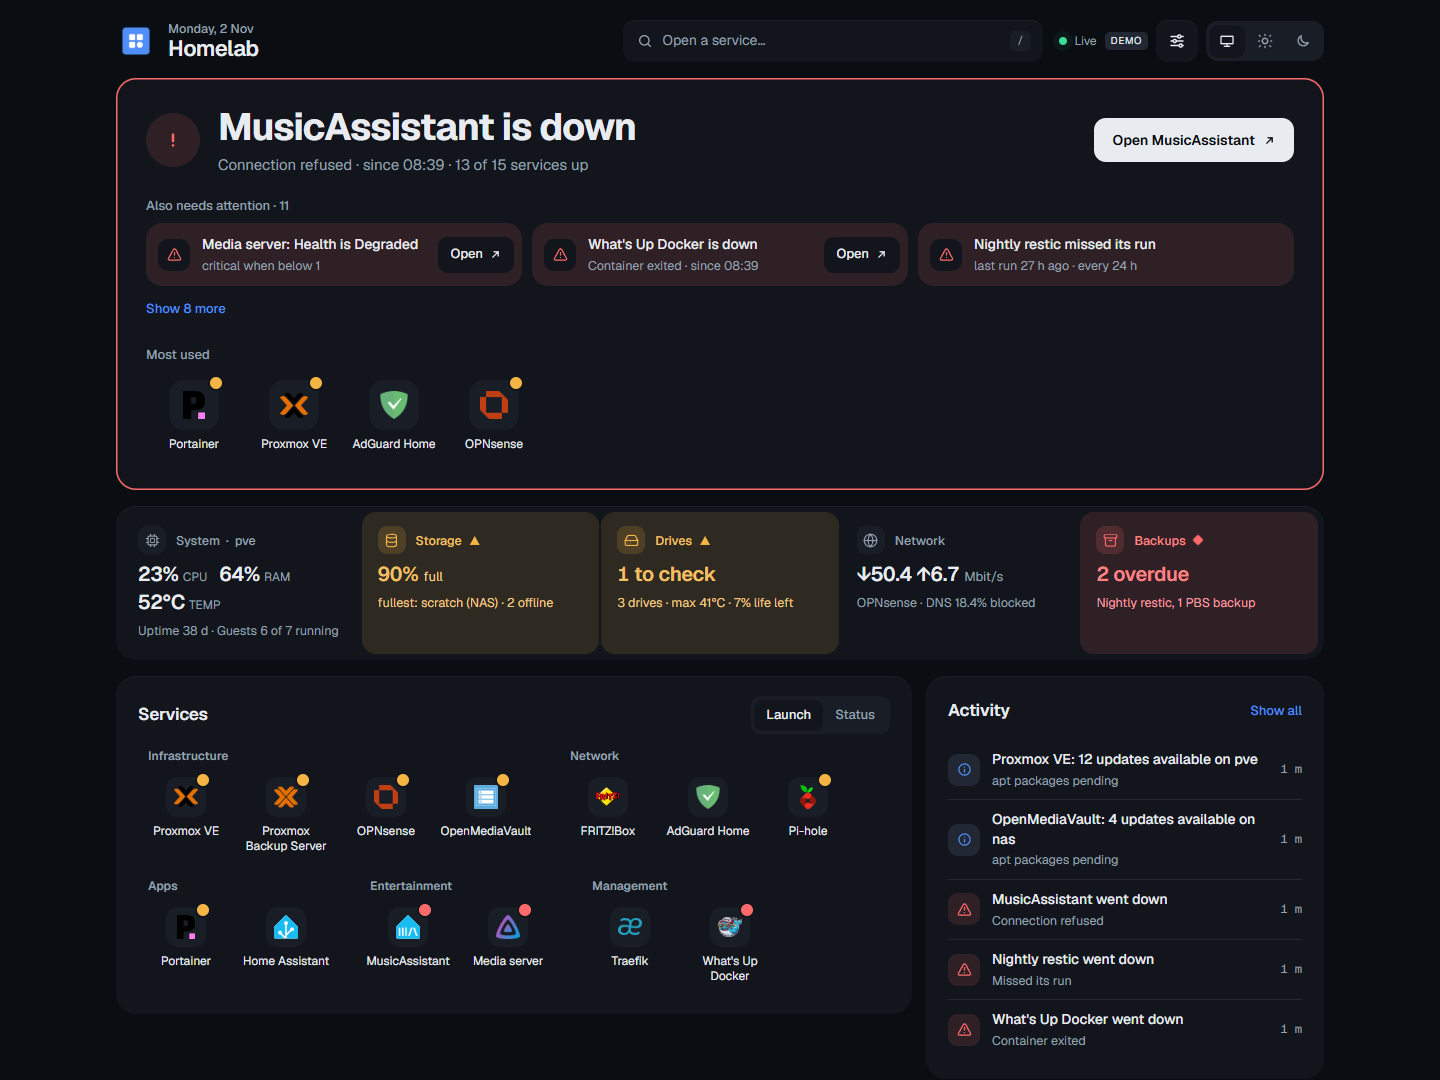
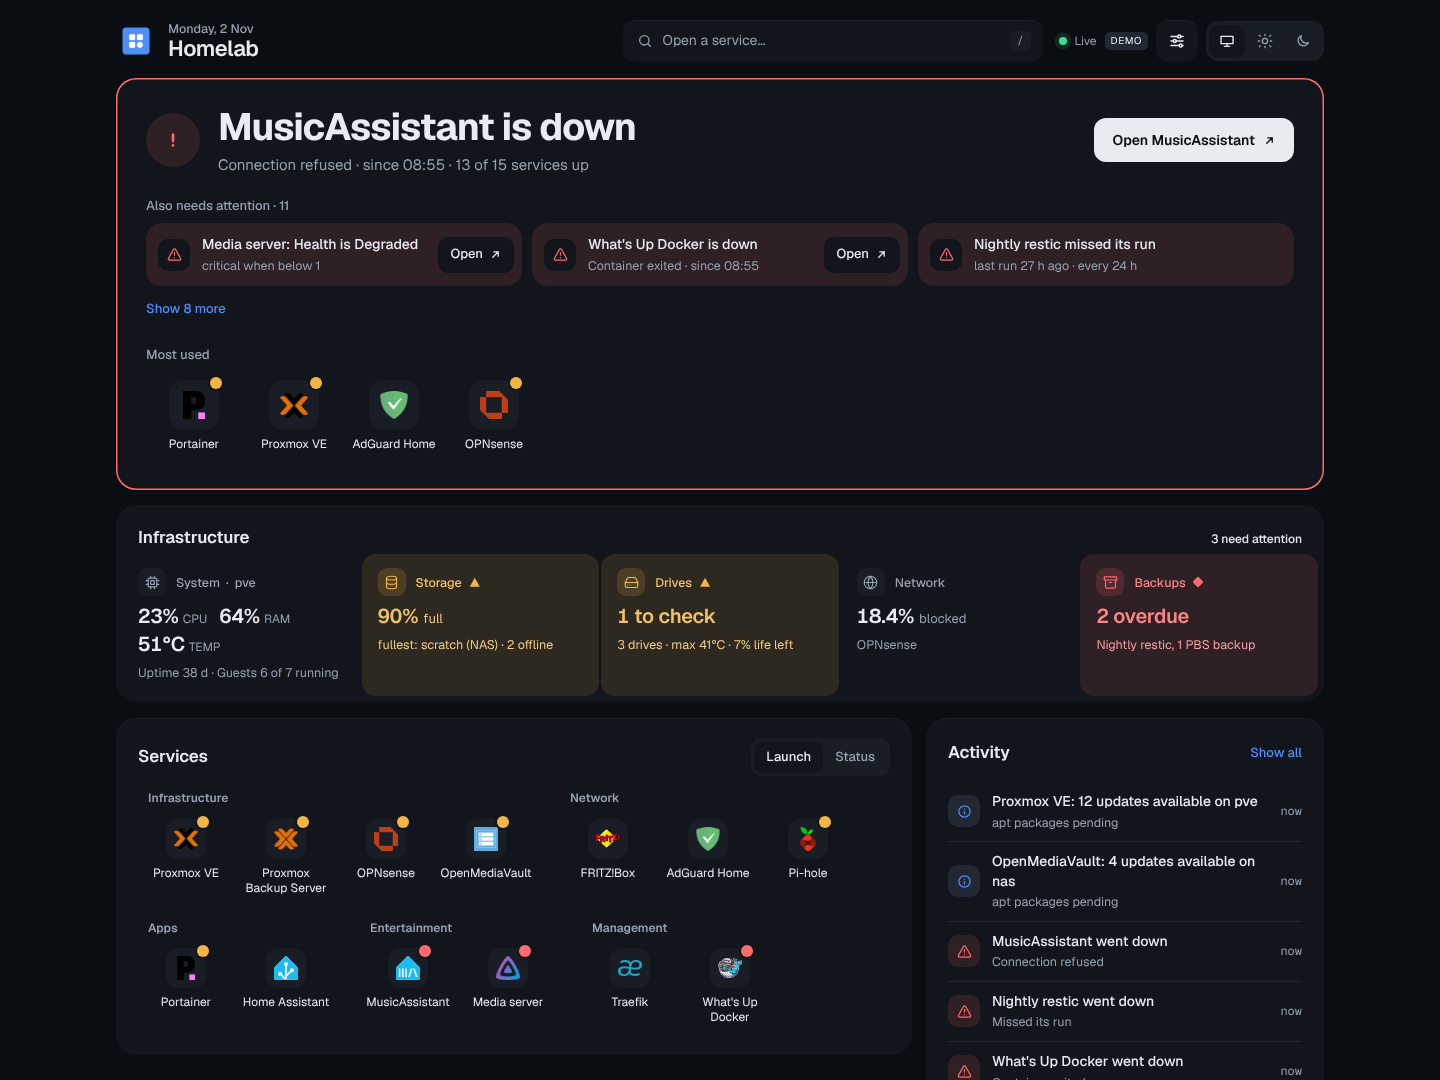
Infrastructure header; collapsed infrastructure card on phones
The infrastructure card has a header again, like Services and Activity,
with how many areas need attention ("All healthy" otherwise), on every
width. Desktop keeps its columns.

On phones the card collapses: the five areas as icons with their names
in one row, no frames; a problem's icon is outlined in its colour with
its shape on the corner. One sentence below gives the key figures
(CPU, RAM, temperature, storage), or, when something needs attention,
only that ("Storage 90% full · Drives 1 to check · Backups 2 overdue").
An icon opens its area's sheet as before.

README screenshots retaken; docs describe the collapsed card.

Claude-Session: https://claude.ai/code/session_01BawsogaJNWbTRPKpGZs34a

diff --git a/src/routes/+page.svelte b/src/routes/+page.svelte
@@ -155,6 +155,17 @@
     return out;
   });
 
+  /** a card's figure as words: "19% CPU · 64% RAM · 49°C TEMP", "90% full", "2 overdue" */
+  const figText = (c: Card) => (c.stats ? c.stats.map((x) => (x.k ? `${x.v} ${x.k}` : x.v)).join(' · ') : [c.value, c.unit].filter(Boolean).join(' '));
+  // the infrastructure card's header and its phone summary: what needs attention, or, when nothing does, the key figures
+  const infraProblems = $derived(cards.filter((c) => isProblem(c.level)));
+  const infraStatus = $derived(infraProblems.length ? `${infraProblems.length} need${infraProblems.length === 1 ? 's' : ''} attention` : 'All healthy');
+  const infraSay = $derived.by(() => {
+    if (infraProblems.length) return infraProblems.map((c) => ({ k: c.label, v: figText(c) }));
+    const sys = cards.find((c) => c.id === 'system'), sto = cards.find((c) => c.id === 'storage');
+    return [sys && { k: '', v: figText(sys) }, sto && { k: 'Storage', v: figText(sto) }].filter((x) => !!x);
+  });
+
   // ---- sheets: details on demand ----
   // A stack: a sheet opened from inside another (Backups → a job) is a level deeper, with a back button to the one
   // below. Each level is a history entry (shallow routing), so the browser's and Android's back go up one level, and
@@ -421,8 +432,13 @@
     </section>
 
     {#if cards.length}
-      <!-- infrastructure and backups in one card: a row per area, side by side when wide, two tiles a row on phones; each opens its sheet -->
-      <section class="card infra" aria-label="Infrastructure" style="--n: {cards.length}">
+      <!-- infrastructure and backups in one card: a row per area, side by side when wide; on phones collapsed to the area
+           icons and one sentence. Each area opens its sheet -->
+      <section class="card infra" aria-labelledby="h-infra" style="--n: {cards.length}">
+        <div class="ihead">
+          <h2 id="h-infra">Infrastructure</h2>
+          <span class="muted small" class:hl={infraProblems.length > 0}>{infraStatus}</span>
+        </div>
         <div class="irows">
         {#each cards as c (c.id)}
           <button class="irow lv-{c.level}" class:alert={isProblem(c.level)} onclick={() => openCard(c)}>
@@ -441,6 +457,8 @@
           </button>
         {/each}
         </div>
+        <!-- phones: the figures the collapsed rows leave out; only what needs attention when something does -->
+        <p class="isay">{#each infraSay as x, i (i)}{#if i}{' · '}{/if}{#if x.k}<b>{x.k}</b>{' '}{/if}{x.v}{/each}</p>
       </section>
     {/if}
 
@@ -713,6 +731,9 @@
   /* infrastructure and backups: one card, a row per area: its icon, then label, figure and context stacked; a column
      each when the card is wide, two tiles a row on phones */
   .infra { container: infra-sum / inline-size; padding: 6px; }
+  .ihead { display: flex; align-items: baseline; justify-content: space-between; gap: 8px 16px; padding: 14px 16px 4px; }
+  .ihead .hl { color: var(--text); font-weight: 500; }
+  .isay { display: none; }
   .irows { display: flex; flex-direction: column; gap: 2px; }
   .irow {
     display: grid; grid-template-columns: 36px minmax(0, 1fr) auto; grid-template-areas: 'ic k chev' 'ic fig chev' 'ic s chev'; align-items: center; gap: 1px 14px;
@@ -863,17 +884,21 @@
     .lgroup, .lgroup .apps { display: contents; }
     .lgroup h3 { display: none; }
     .infra { border-radius: 22px; }
-    /* phones: the wide layout's columns as tiles, two a row (the first full width when the count is odd), without the
-       context line: the figure says what is wrong and a tap opens the rest */
-    .irows { display: grid; grid-template-columns: repeat(2, minmax(0, 1fr)); gap: 4px; }
-    .irow:first-child:nth-last-child(odd) { grid-column: 1 / -1; }
-    .irow { grid-template-columns: 26px minmax(0, 1fr); grid-template-areas: 'ic k' 'fig fig'; align-content: start; gap: 8px 10px; padding: 12px; }
-    /* a healthy tile is the card's colour, as on desktop, outlined where desktop has its rules; grey while pressed */
-    .irow:not(.alert) { box-shadow: inset 0 0 0 1px var(--line); }
-    .irow:not(.alert):active { background: var(--surface-2); }
-    .irow + .irow::before, .irow .s, .chev { display: none; }
-    .iico { align-self: center; width: 26px; height: 26px; border-radius: 8px; }
-    .iico :global(svg) { width: 14px; height: 14px; }
+    /* phones: collapsed. Each area is its icon and name in one row of cells (a problem's icon outlined in its colour,
+       its shape on the corner); the sentence below gives the figures. A tap opens the area's sheet */
+    .ihead { padding: 10px 10px 4px; }
+    .infra { padding: 6px 6px 14px; }
+    .irows { display: grid; grid-template-columns: repeat(var(--n), minmax(0, 1fr)); gap: 2px; padding-top: 4px; }
+    .irow { display: flex; flex-direction: column; align-items: center; gap: 6px; padding: 8px 0; text-align: center; }
+    .irow, .irow.alert, .irow:hover { background: none; }
+    .irow:active { background: var(--surface-2); }
+    .irow + .irow::before, .irow .fig, .irow .s, .irow .kw, .chev { display: none; }
+    .iico { align-self: center; width: 44px; height: 44px; border-radius: 14px; }
+    .irow.alert .iico { background: var(--lv-soft); box-shadow: inset 0 0 0 1.5px var(--lv); }
+    .irow .k { font-size: 12px; color: var(--text); }
+    .irow .k .dot { position: absolute; top: 5px; left: calc(50% + 17px); margin: 0; }
+    .isay { display: block; margin: 6px 10px 0; font-size: 14px; line-height: 1.45; color: var(--muted); }
+    .isay b { color: var(--text); font-weight: 600; }
     .sec { padding: 16px; border-radius: 20px; }
     .sbeats, .up { display: none; }
     .seg button { min-height: 36px; }

diff --git a/CLAUDE.md b/CLAUDE.md
@@ -27,7 +27,7 @@ One Node process, no worker or external DB. `src/hooks.server.ts` starts a singl
 - **Fixtures** (`demo/<type>.ts`) are `"METHOD /path"` → `({ now, scenario, params, headers, body })` tables served by `fixtureTransport`. Demo mode and the tests use the same transport seam, so integrations run unchanged in both. `demoSources` only fakes what has no integration: probes, certificates, local host, temperatures, 24 h of seeded history.
 - **Checks** (`check.ts`): `record` turns a reading into check state, a history row and events; `status` gives the tile's level, line and alert. `siteMonitor` is probed over HTTP (<500 = up) or, for `tcp://host:port`, by connecting. **Heartbeats** (`heartbeat.ts`, `/api/heartbeat/<id>[/fail]`) are push checks: token compared on SHA-256 digests, 404 for an unknown id or a wrong token, 1 call/s per id; results live in `kv`.
 - **Snapshot** (`snapshot.ts`) holds the status rules: down after 2 failed probes, "slow" when the 1 h p95 exceeds `latencyWarnMs` with ≥10 samples, the certificate, storage and temperature thresholds, the verdict, the fleet strip. `build` runs one function per panel. Those that raise alerts (`configAlerts`, `serviceTiles`, `hostPanel`, `storagePanel`, `drivesPanel`) run before `round.close`, the rest (`applyWorst`, `networkPanel`, `fleetStrip`, `verdictFacts`, `mostUsedRow`) after. History queries go through `perMinute` (read once a minute per builder); live state is never cached. Tested through `build` in `snapshot.test.ts`, with inputs from `test-helpers.ts#snapshotInput`.
-- **Main page** (`+page.svelte`): the hero (`verdict`: one sentence, the top item's Open action, Most used), the other crit/warn items, one infrastructure card (a row each for System, Storage, Drives, Network and Backups; side by side when wide, two tiles a row without the context line on phones) and the services as a **Launch** grid (linked services only, a problem marker) or a **Status** list (every service and job with its line and strip). Details live in sheets (`Sheet.svelte`, a modal `<dialog>`): a service (with its 7-day events from `/api/events?sid=`), infrastructure (`Infrastructure.svelte`), backups (`jobs`, `backups`) and activity (`events`). Info items are notes in Activity, not problems. Phones show the same order without a tab bar.
+- **Main page** (`+page.svelte`): the hero (`verdict`: one sentence, the top item's Open action, Most used), the other crit/warn items, one infrastructure card (a row each for System, Storage, Drives, Network and Backups; side by side when wide; on phones collapsed to the area icons and one sentence, the key figures or only the problems) and the services as a **Launch** grid (linked services only, a problem marker) or a **Status** list (every service and job with its line and strip). Details live in sheets (`Sheet.svelte`, a modal `<dialog>`): a service (with its 7-day events from `/api/events?sid=`), infrastructure (`Infrastructure.svelte`), backups (`jobs`, `backups`) and activity (`events`). Info items are notes in Activity, not problems. Phones show the same order without a tab bar.
 - **Attention** (`attention.ts`): `begin(now)` → `raise({ sev, key, title, service | source })` → `close(events)`; raising after close throws. It names, ages (by key, never by title) and orders alerts, and gives the headline, the feed, `needCount` and `worst(sid)`. `Alert.key` is required and unique per widget result (`integrations.test.ts` checks it).
 - **Config** (`config.ts`): `loadConfig()` deep-merges `settings.yaml` over `DEFAULT_SETTINGS`; intervals below their minimum become problems. `${NAME}` and `{{HOMEPAGE_VAR_NAME}}` resolve from the env, then `NAME_FILE`, then `/run/secrets/<name lowercase>`. A broken file keeps its last version and is recorded as a problem. Missing secrets are recorded by name (not in demo mode).
 - **Config view** (`/config`, `config-view.ts`) is read-only and **allowlist only**: type, URL origin, per-type `SAFE_OPTIONS`, status. `config-view.test.ts` fails if any configured secret reaches the page data. The page (titled Setup) checks the configuration, not service health: it joins `widgets`, `checks` and `icons` onto `services` (one row per service) and shows settings that differ from the default first.

diff --git a/README.md b/README.md
@@ -11,7 +11,7 @@ It is made for your **LAN or VPN** (WireGuard, Tailscale, …): it has no login 
 ![Dashboard in dark mode with problems: the top problem with its Open button, the others that need attention, the most used services, the infrastructure card with a column per area, the launcher and recent activity](docs/screenshots/desktop-dark.png)
 
 - **One glance.** One sentence gives the state ("All 15 services up · 3 jobs on schedule", or the most important problem with a button to open that service), then whatever else needs attention, most severe first. When all is well, the page is short and quiet.
-- **Infrastructure at a glance, details on demand.** One card with an entry per area: **System** (CPU, memory, temperature of the Proxmox node or the machine the dashboard runs on), **Storage** (the fullest), **Drives** (SMART health, hottest drive, least life left), **Network** (WAN traffic, DNS block rate) and **Backups** (PBS and backup jobs, the next one due). Each one opens a sheet with the full detail: 24-hour charts you can scrub through (CPU, memory, disk, temperature), every storage with its fill, grouped by the host or NAS it belongs to, every drive with SMART health, traffic charts, each job's schedule. On a phone the areas become tiles, two to a row, showing just the figure.
+- **Infrastructure at a glance, details on demand.** One card with an entry per area: **System** (CPU, memory, temperature of the Proxmox node or the machine the dashboard runs on), **Storage** (the fullest), **Drives** (SMART health, hottest drive, least life left), **Network** (WAN traffic, DNS block rate) and **Backups** (PBS and backup jobs, the next one due). Each one opens a sheet with the full detail: 24-hour charts you can scrub through (CPU, memory, disk, temperature), every storage with its fill, grouped by the host or NAS it belongs to, every drive with SMART health, traffic charts, each job's schedule. On a phone the card collapses to the area icons and one sentence: the key figures, or only what needs attention.
 - **Launcher.** The services you open most, picked automatically, then every service with a link, grouped as in `services.yaml`, with nothing on an icon but a small marker when it has a problem. Press `/` or `⌘K` / `Ctrl+K` for the command palette.
 - **Checks.** Services are checked every 30 s over HTTP or `tcp://`, which gives uptime (24 h and 7 d), p95 latency and a 24-hour health strip; the **Status** view of the services, and each service's sheet, show them, and the sheet lists the service's events of the last 7 days. The dashboard also tracks certificate expiry, backup age per guest, failed or unhealthy containers, SMART status and pending Proxmox updates.
 - **Live and installable.** Updates are pushed to the browser as they happen, and a service whose status changes is briefly highlighted. If updates stop, the page says so and greys out instead of showing old data as current. It installs as an app (PWA) on phones and desktops, with the number of open problems on its icon, in light and dark themes.
@@ -26,7 +26,7 @@ It is made for your **LAN or VPN** (WireGuard, Tailscale, …): it has no login 
 
 ![Light mode with everything healthy: "All 15 services up", the most used services, the infrastructure card with a column per area, the launcher and recent activity](docs/screenshots/desktop-light.png)
 
-![On a phone: the top problem and the attention list in dark mode, and in light mode with everything healthy, the infrastructure tiles two to a row above the launcher](docs/screenshots/phones.png)
+![On a phone: the top problem and the attention list in dark mode, and in light mode with everything healthy, the collapsed infrastructure card (area icons and the key figures) above the launcher](docs/screenshots/phones.png)
 
 Every screenshot shows the built-in demo data (`DEMO=1`), not a real homelab.
 

diff --git a/CONTEXT.md b/CONTEXT.md
@@ -28,7 +28,7 @@ Terms used in the code and in design discussions.
 
 **Verdict** — the hero's sentence: "All 15 services up" (with jobs, backups and expiring certificates as context), or the top attention item with an Open action for its service.
 
-**Infrastructure** — the card under the hero: a row each for System, Storage, Drives, Network and Backups, with an icon, one figure and a line of context (side by side when the page is wide; on phones tiles two to a row, without the line of context). A row opens the Infrastructure sheet at its tab: System (the host's gauges and 24 h charts), Storage and Drives (grouped by the host or service that reports them) and Network; Backups opens its own sheet. A tab is marked with the worst level in its panel; only panels with data get a tab.
+**Infrastructure** — the card under the hero: a row each for System, Storage, Drives, Network and Backups, with an icon, one figure and a line of context under an Infrastructure header that says how many need attention (side by side when the page is wide; on phones collapsed to the area icons and one sentence: the key figures, or only what needs attention). A row (on phones, an icon) opens the Infrastructure sheet at its tab: System (the host's gauges and 24 h charts), Storage and Drives (grouped by the host or service that reports them) and Network; Backups opens its own sheet. A tab is marked with the worst level in its panel; only panels with data get a tab.
 
 **Sheet** — a panel over the page with the details of one thing (a service with its own activity, infrastructure, backups, activity): a side panel on desktop, a bottom sheet on phones that a pull down from its top closes (the close button stays as the tap alternative). Sheets stack: one opened from inside another (Backups → a job) is a level deeper, with a back button; each level is a history entry, so back (browser, Android, Esc) goes up one level, and closing closes all. The page itself stays short.
 

diff --git a/CONTRIBUTING.md b/CONTRIBUTING.md
@@ -75,7 +75,7 @@ Guidelines: match gethomepage's widget fields where an equivalent exists. Never 
 - `npm run check` and `npm test` must pass. CI runs them, then builds the image and smoke-tests it in demo mode.
 - Update the docs when behaviour or configuration changes.
 - Screenshots help for UI changes. Take them in demo mode, never from a real setup.
-- The README screenshots are in `docs/screenshots/`. When the UI changes visibly, retake them in demo mode: desktop at 1440×1080, phones at 390×844 with 2× pixel density, side by side in `phones.png` (`issues` scenario in dark mode, `calm` in light mode with the Backups sheet open).
+- The README screenshots are in `docs/screenshots/`. When the UI changes visibly, retake them in demo mode: desktop at 1440×1080, phones at 390×844 with 2× pixel density, side by side in `phones.png` (`issues` scenario in dark mode, `calm` in light mode at the top of the page).
 
 ## Releases (maintainers)
 
